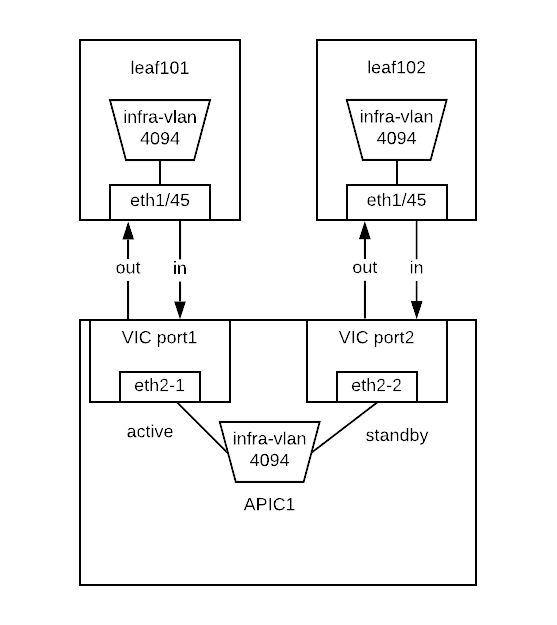
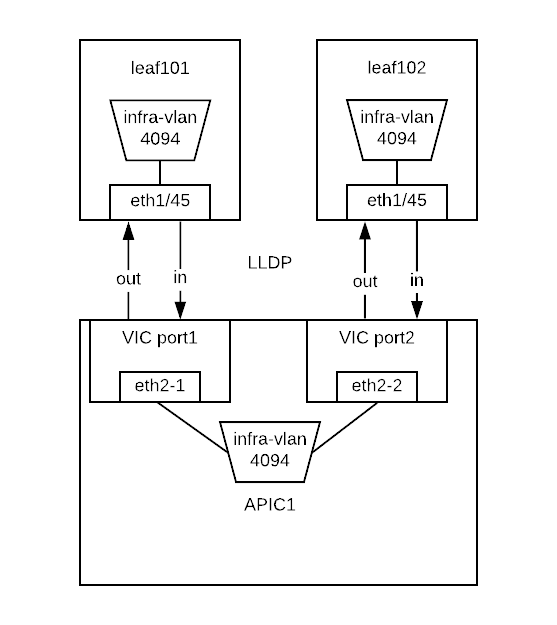
Modified VTEP section

diff --git a/source/fabric-discovery.rst b/source/fabric-discovery.rst
@@ -224,7 +224,16 @@ Check the lldp neighbours on connected Leaf:
 
 .. code-block:: console
 
-  switch# show lldp neighbor
+  leaf101# show lldp neighbors 
+  Capability codes:
+    (R) Router, (B) Bridge, (T) Telephone, (C) DOCSIS Cable Device
+    (W) WLAN Access Point, (P) Repeater, (S) Station, (O) Other
+  Device ID            Local Intf      Hold-time  Capability  Port ID  
+  apic1                 Eth1/45         120                    eth2-1 <<< apic1 is a LLDP neighbor         
+  spine201              Eth1/53         120        BR          Eth1/29         
+  spine202              Eth1/54         120        BR          Eth1/29         
+  Total entries displayed: 3
+
 
 Ensure that the infra VLANs on APIC and Leaf match.
 If they do not match, please run the following to reset switch to manufacture config (bug CSCvd67346).
@@ -279,10 +288,28 @@ Ensure that the VTEP is assigned to the leaf switch
 ~~~~~~~~~~~~~~~~~~~~~~~~~~~~~~~~~~~~~~~~~~~~~~~~~~~~
 
 When leaf is registered, it will request TEP address via DHCP.
-
 .. image:: dhcp-vtep.png
    :width: 300px
    :alt: APIC Cluster connectivity
+
+.. code-block:: console
+
+  leaf101# show ip interface brief vrf overlay-1
+  IP Interface Status for VRF "overlay-1"(4)
+  Interface            Address              Interface Status
+  eth1/49              unassigned           protocol-down/link-down/admin-up
+  eth1/50              unassigned           protocol-down/link-down/admin-up
+  eth1/51              unassigned           protocol-down/link-down/admin-up
+  eth1/52              unassigned           protocol-down/link-down/admin-up
+  eth1/53              unassigned           protocol-up/link-up/admin-up
+  eth1/53.2            unnumbered           protocol-up/link-up/admin-up
+                       (lo0)               
+  eth1/54              unassigned           protocol-up/link-up/admin-up
+  eth1/54.3            unnumbered           protocol-up/link-up/admin-up
+                       (lo0)               
+  vlan1                10.0.0.30/27         protocol-up/link-up/admin-up
+  lo0                  10.0.32.95/32        protocol-up/link-up/admin-up <<< VTEP
+  lo1023               10.0.0.32/32         protocol-up/link-up/admin-up
 
 Reference
 ---------
